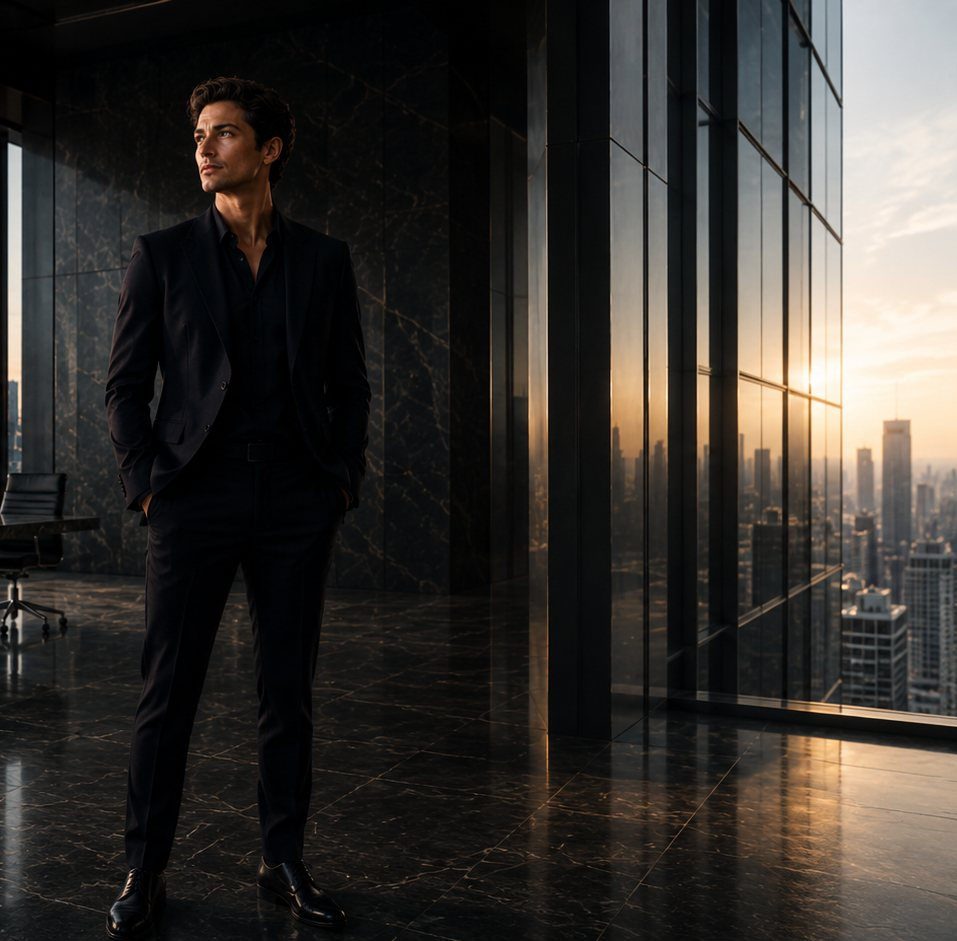
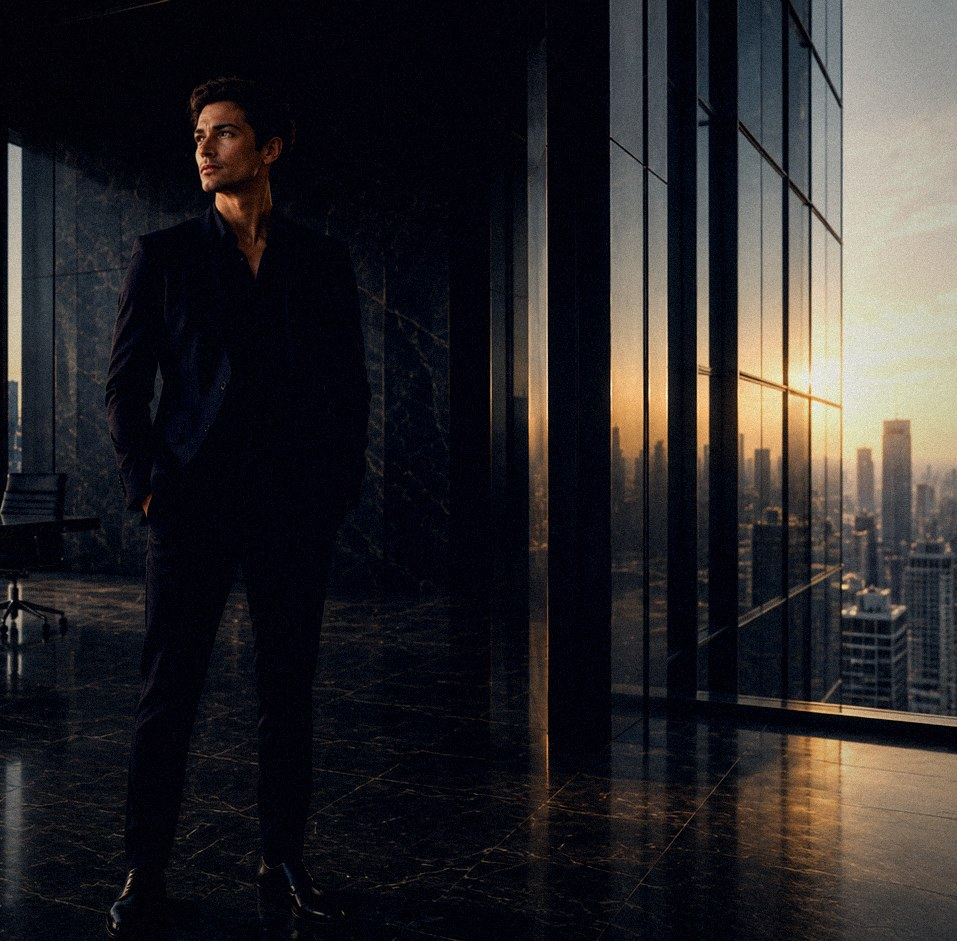
Add files via upload

diff --git a/index.html b/index.html
@@ -236,7 +236,7 @@
     <section id="how-it-works" class="dark">
       <div class="wrap pad">
         <p class="kicker">How it works</p>
-        <h2 class="reveal" style="max-width:40rem">One system for every legal issue your business faces.</h2>
+        <h2 class="reveal" style="max-width:40rem">One system for <span class="emph">every legal issue</span> your business faces.</h2>
         <p class="lead reveal" style="max-width:44rem;margin-top:1.25rem;color:rgba(255,255,255,.62)">Omnilex pairs an always-on AI legal mind with a team of expert lawyers who supervise it. Your legal work gets handled continuously — and always stands up to scrutiny.</p>
 
         <div class="hiw-visual reveal" role="img" aria-label="Diagram: your legal issues flow into the always-on Omnilex Mind, which is supervised by expert lawyers, then delivered back to your business as resolved matters.">
@@ -273,11 +273,21 @@
             <circle cx="620" cy="320" r="70" fill="rgba(36,80,230,0.12)"/>
             <text x="620" y="286" text-anchor="middle" fill="#9db8ff" font-size="11" letter-spacing="2" font-family="Inter, sans-serif">ALWAYS ON</text>
             <text x="620" y="316" text-anchor="middle" fill="rgba(255,255,255,0.75)" font-size="12.5" letter-spacing="1.5" font-family="Inter, sans-serif">THE OMNILEX</text>
-            <text x="620" y="352" text-anchor="middle" fill="#ffffff" font-size="30" font-weight="600" font-family="Inter, sans-serif">Mind</text>
+            <text x="620" y="356" text-anchor="middle" fill="#ffffff" font-size="36" font-family="'Instrument Serif', Georgia, serif" font-style="italic">Mind</text>
             <path d="M716,320 L842,320" stroke="rgba(255,255,255,0.3)" stroke-width="2" marker-end="url(#arw)"/>
             <rect x="846" y="266" width="226" height="108" rx="14" fill="rgba(255,255,255,0.04)" stroke="rgba(255,255,255,0.14)"/>
             <text x="959" y="312" text-anchor="middle" fill="#ffffff" font-size="16" font-weight="600" font-family="Inter, sans-serif">Resolved &amp; delivered</text>
             <text x="959" y="338" text-anchor="middle" fill="rgba(255,255,255,0.6)" font-size="13" font-family="Inter, sans-serif">review-ready, on time</text>
+            <g fill="#4d79ff" opacity="0.3">
+              <circle r="10"><animateMotion dur="6.5s" repeatCount="indefinite" path="M300,335 L620,320 L955,320 L955,374 C955,545 520,560 172,448"/></circle>
+              <circle r="10"><animateMotion dur="6.5s" begin="-2.17s" repeatCount="indefinite" path="M300,335 L620,320 L955,320 L955,374 C955,545 520,560 172,448"/></circle>
+              <circle r="10"><animateMotion dur="6.5s" begin="-4.33s" repeatCount="indefinite" path="M300,335 L620,320 L955,320 L955,374 C955,545 520,560 172,448"/></circle>
+            </g>
+            <g fill="#c3d6ff">
+              <circle r="4.5"><animateMotion dur="6.5s" repeatCount="indefinite" path="M300,335 L620,320 L955,320 L955,374 C955,545 520,560 172,448"/></circle>
+              <circle r="4.5"><animateMotion dur="6.5s" begin="-2.17s" repeatCount="indefinite" path="M300,335 L620,320 L955,320 L955,374 C955,545 520,560 172,448"/></circle>
+              <circle r="4.5"><animateMotion dur="6.5s" begin="-4.33s" repeatCount="indefinite" path="M300,335 L620,320 L955,320 L955,374 C955,545 520,560 172,448"/></circle>
+            </g>
           </svg>
         </div>
 